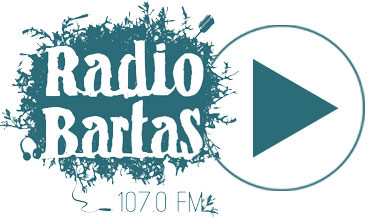
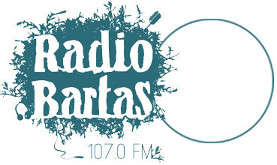
Nouvelle habillage (en cours)

diff --git a/css/player.css b/css/player.css
@@ -2,8 +2,8 @@
 body{
 	padding: 0px;
 	margin: 0px;
-	width: 240px;
-	height: ;
+	width: 370px;
+	height: 220px;
 }
 
 .player {
@@ -28,8 +28,8 @@ div.jp-video div.jp-type-playlist ul.jp-controls {
 div.jp-interface ul.jp-controls li {
 	display:inline;
 	position: absolute;
-	top: 44px;
-	left: 168px;
+	top: 35px;
+	left: 175px;
 }
 
 div.jp-interface ul.jp-controls a {
@@ -40,22 +40,23 @@ div.jp-interface ul.jp-controls a {
 
 a.jp-play,
 a.jp-pause {
-	width:71px;
-	height:71px;
+	width:89px;
+	height:89px;
 }
 
 a.jp-pause {
-	background: url("../img/icons.jpg") 0 0 no-repeat;
+	background: url("../img/icons.png") 0 0 no-repeat;
 }
 a.jp-pause:hover {
-	background: url("../img/icons.jpg") -71px 0 no-repeat;
+	background: url("../img/icons.png") -89px 0 no-repeat;
+	margin-left: 10px;
 }
 a.jp-play {
-	background: url("../img/icons.jpg") 0 -71px no-repeat;
+	background: url("../img/icons.png") 0 -89px no-repeat;
 	display: none;
 }
 a.jp-play:hover {
-	background: url("../img/icons.jpg") -71px -71px no-repeat;
+	background: url("../img/icons.png") -89px -89px no-repeat;
 }
 
 

diff --git a/index.html b/index.html
@@ -25,8 +25,8 @@
 
     <script type="text/javascript">
         function popup(url) {
-            var width = 369;
-            var height = 250;
+            var width = 370;
+            var height = 220;
 
             var propriete = "resizable=no,status=no,directories=no,addressbar=no,toolbar=no,scrollbars=no,menubar=no,location=no,statusbar=no";
             propriete += "top=" + (screen.height - height) / 2 + ",";

diff --git a/php/streamMeta.php b/php/streamMeta.php
@@ -55,9 +55,9 @@ if ($fp == false) {
 			$result[$temp[0]] = $temp[1];
 	}
 
-	echo "<pre>";
+	/*echo "<pre>";
 	var_dump($result);
-	echo "</pre>";
+	echo "</pre>";/**/
 	if(isset($result["Current Song"]))
 		print($result["Current Song"]);
 	else
